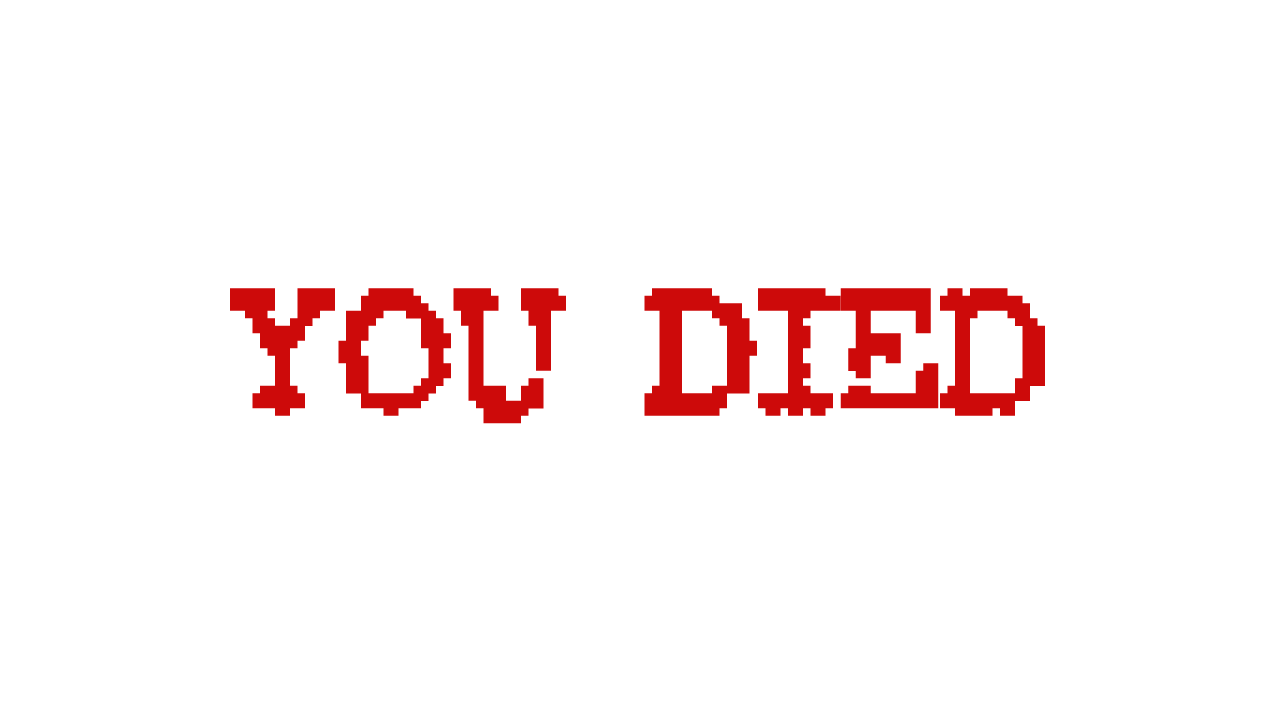
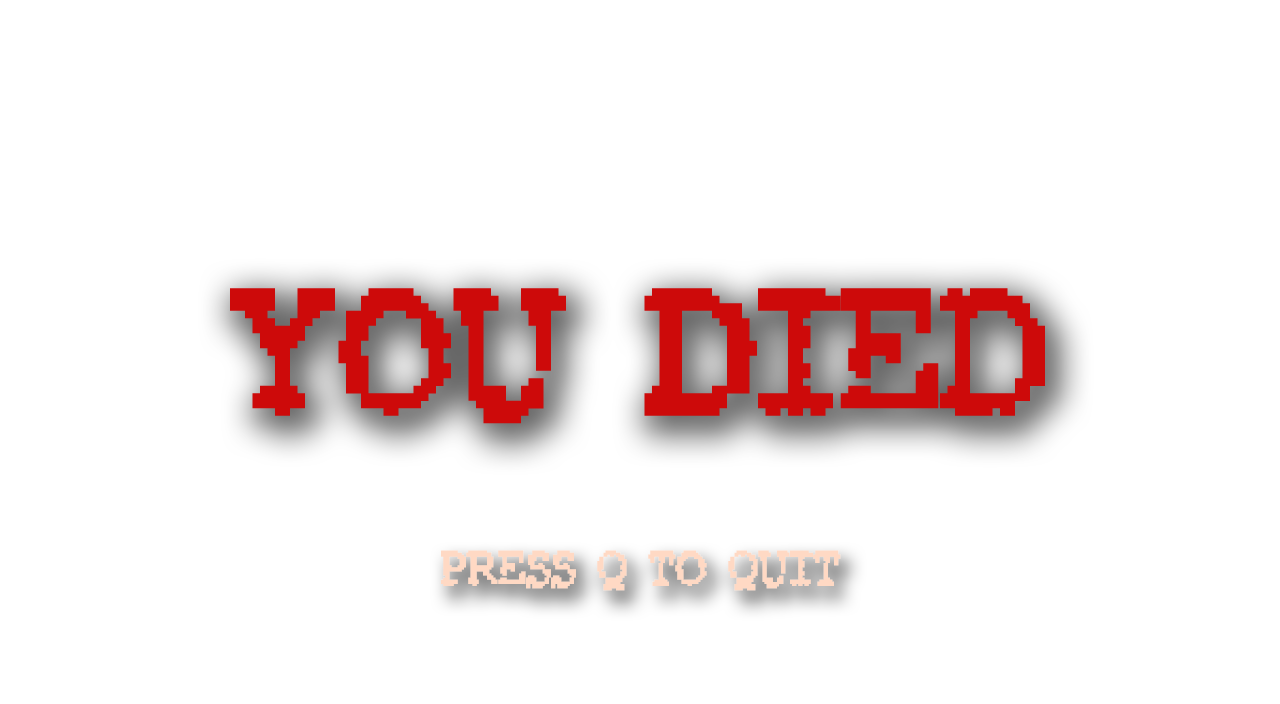
Update deathOverlay and adds a second-doubler

Changed region(s): [[0.1562, 0.375, 0.8438, 0.6562], [0.3438, 0.7812, 0.6875, 0.875]]

diff --git a/game.py b/game.py
@@ -72,7 +72,7 @@ pygame.mixer.music.play(-1)
 
 
 def handle_key():
-	global dx, prevDir, dy, light_map, debug_mode
+	global dx, prevDir, dy, light_map, seconds, debug_mode
 	currGold = player.getGold()
 	if event.type == pygame.KEYDOWN:
 
@@ -120,13 +120,15 @@ def handle_key():
 					player.setGold(currGold - 250)
 					towers.append(tower.Turret(player_x, player_y))
 
+		if event.key == pygame.K_o and debug_mode:
+			seconds *= 2
+
 		if event.key == pygame.K_p:
 			print("Debug mode toggled")
 			if debug_mode == False:
 				debug_mode = True
 			elif debug_mode == True:
 				debug_mode = False
-			
 
 	if event.type == pygame.KEYUP:
 		if event.key == pygame.K_a or event.key == pygame.K_d:
@@ -272,8 +274,6 @@ while not player_dead:
 		player.health += constants.PLAYER_HEALTH_INCREMENT
 
 while quitting_bool:
-
-	
 	draw_board(DISPLAY_WIDTH, DISPLAY_HEIGHT, game_display, player, enemies, projectiles, towers, lights, light_map, fx, debug_mode)
 	draw_hud(game_display, basicfont, DISPLAY_HEIGHT, player.getGold(), player.getHealth(), score, frame, seconds, debug_mode)
 	game_display.blit(images.death_overlay,(0,0))

diff --git a/board.py b/board.py
@@ -1,4 +1,3 @@
-import random
 import images
 import constants
 import animation
